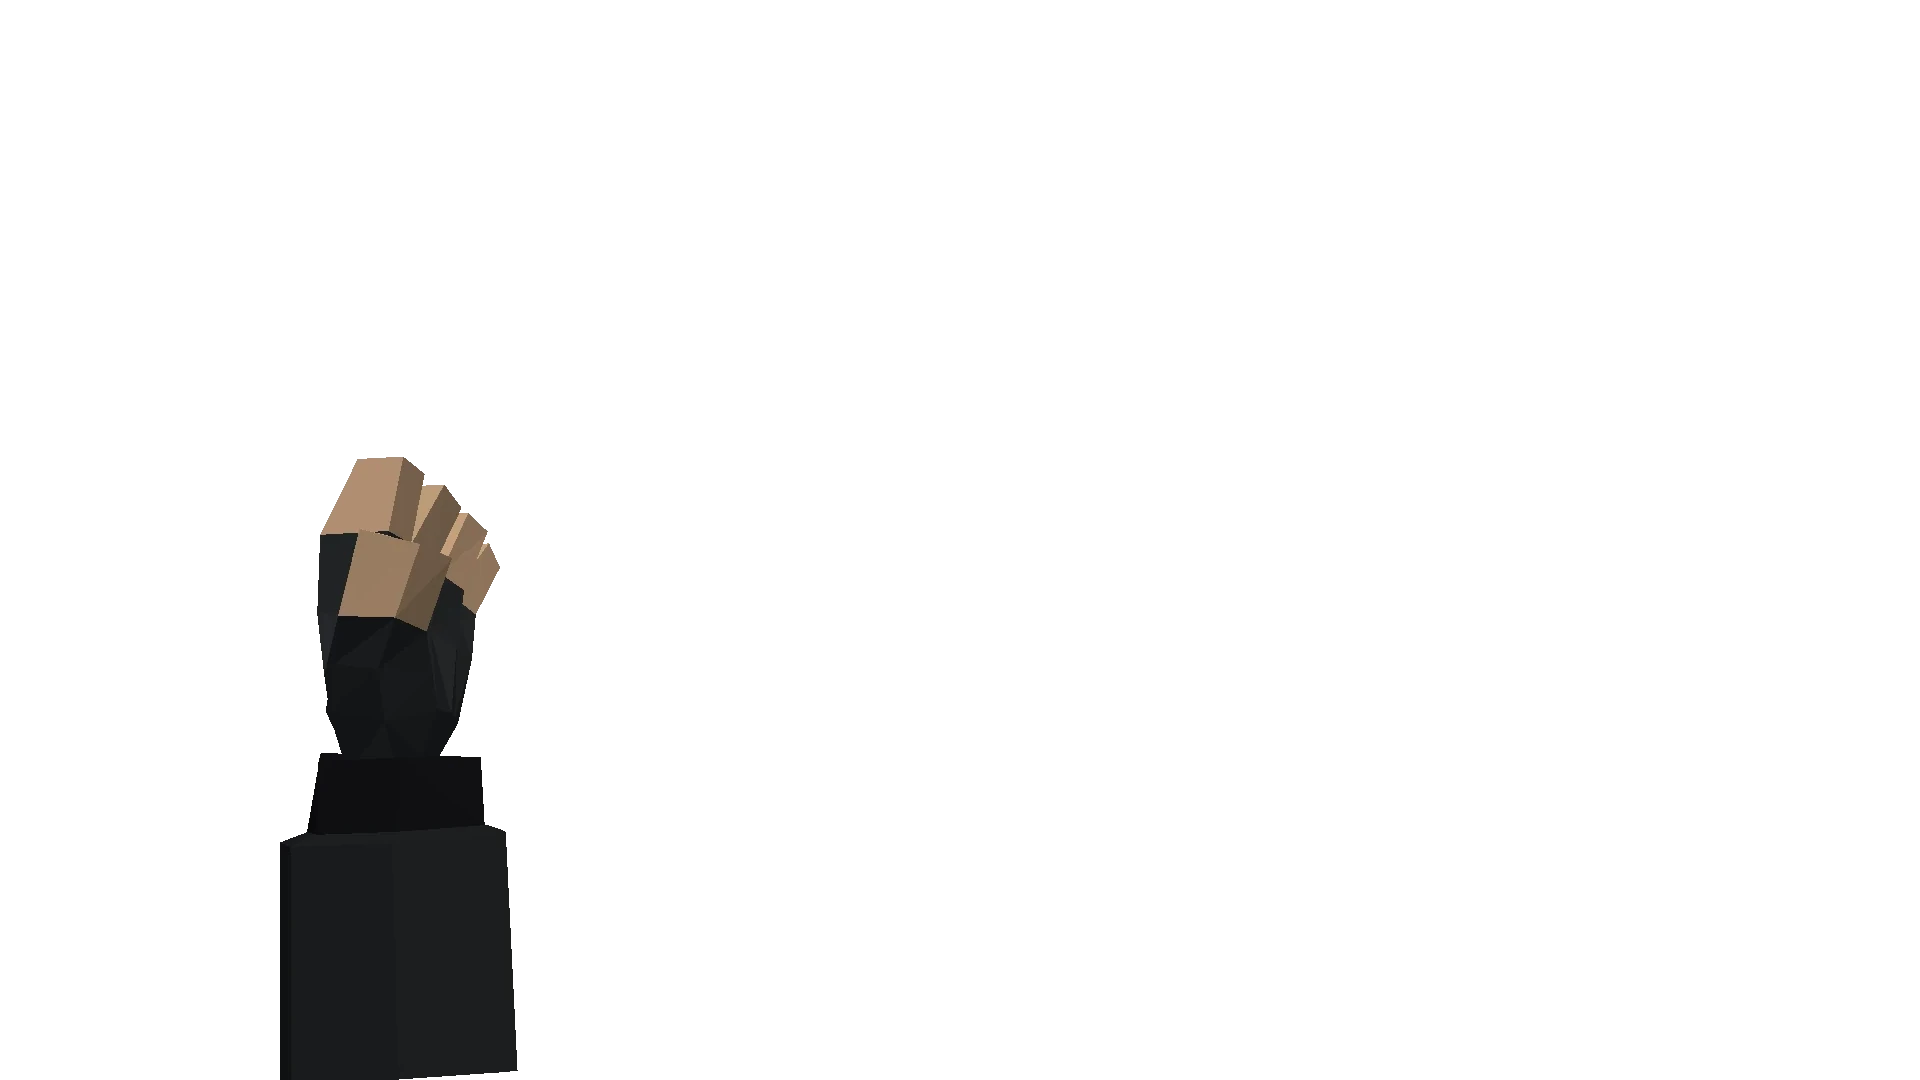
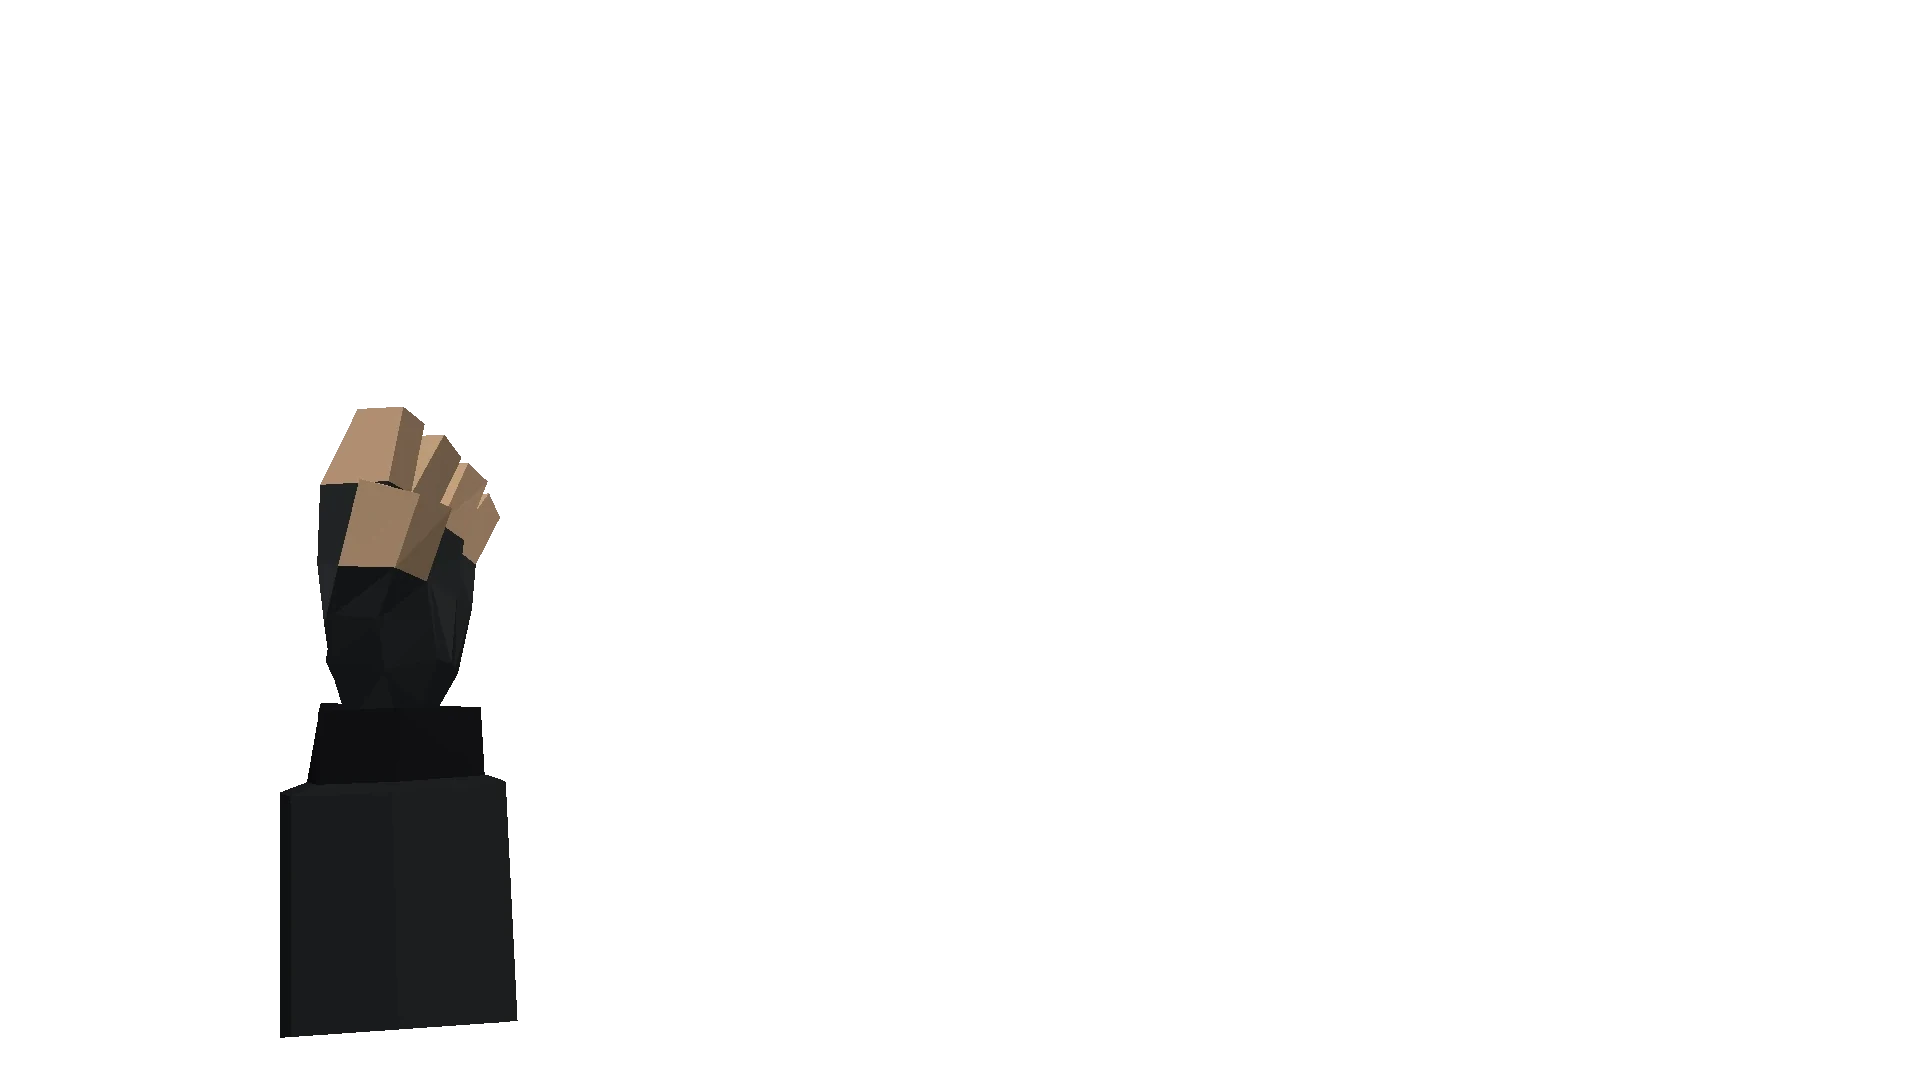
Walkie-talkie: sits in the palm, the hand higher and wholly behind the handset
Update: PDA
Claude-Session: https://claude.ai/code/session_0161ezvjReexY5uDEt8cannB

diff --git a/scripts/fp_hands.py b/scripts/fp_hands.py
@@ -28,12 +28,9 @@ ImageDraw.Draw(mask).polygon([(1308, 492), (1376, 482), (1400, 580), (1312, 596)
 m = (np.asarray(mask) > 0) & (rgba[..., 3] > 0)
 rgba[m, :3] = (31, 33, 35)
 save(Image.fromarray(rgba), 'fp_right')
-# The walkie hand: the same left hand moved under the handset's lower left. It holds the handset from behind:
-# only the fingers that wrap round its left edge are drawn in front of it.
+# The walkie hand: the same left hand, raised so the handset sits in its palm; the handset is drawn wholly in
+# front of it (the front layer stays empty).
 left = Image.open(f'{out}/fp_left.webp')
-moved = Image.new('RGBA', left.size, (0, 0, 0, 0)); moved.paste(left, (-188, 55), left)
+moved = Image.new('RGBA', left.size, (0, 0, 0, 0)); moved.paste(left, (-188, 5), left)
 save(moved, 'fp_lwalkie_back')
-WALKIE_LEFT_PX = 557.0 - 0.23756 * 806.0  # the handset's left edge in the render (first_person.py: walkie css)
-front = np.asarray(moved).copy()
-front[..., 3] = np.where(xx < WALKIE_LEFT_PX + 14, front[..., 3], 0)
-save(Image.fromarray(front), 'fp_lwalkie_front')
+save(Image.new('RGBA', left.size, (0, 0, 0, 0)), 'fp_lwalkie_front')
